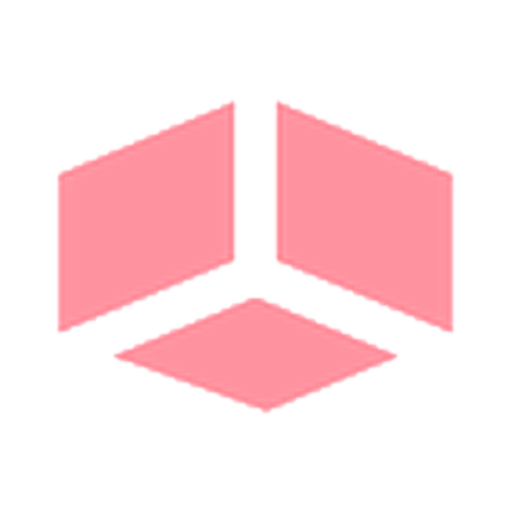
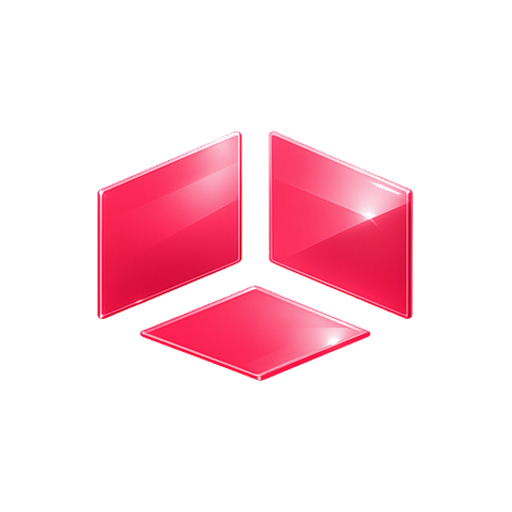
Atualiza splash e icone nativo do app

Changed region(s): [[0.0938, 0.1875, 0.9062, 0.8125]]

diff --git a/tests-e2e/controlled/mobile-lealt-compacto.spec.ts b/tests-e2e/controlled/mobile-lealt-compacto.spec.ts
@@ -114,4 +114,26 @@ test.describe('Mobile — LEALT compacto', () => {
     }
   })
 
+
+  test('mantém splash e ícone nativos alinhados ao LEALT e dentro da zona segura', async () => {
+    const appConfig = JSON.parse(read('app/app.json'))
+    const expo = appConfig.expo
+    const splashPlugin = expo.plugins.find((item: any) => Array.isArray(item) && item[0] === 'expo-splash-screen')
+
+    expect(expo.icon).toBe('./assets/dropzone-launcher-icon.png')
+    expect(expo.android.adaptiveIcon.foregroundImage).toBe('./assets/dropzone-launcher-foreground.png')
+    expect(expo.android.adaptiveIcon.backgroundColor).toBe('#F4F1EB')
+    expect(splashPlugin?.[1]?.image).toBe('./assets/dropzone-icon-accent.png')
+    expect(splashPlugin?.[1]?.imageWidth).toBe(180)
+    expect(splashPlugin?.[1]?.backgroundColor).toBe('#F4F1EB')
+    expect(splashPlugin?.[1]?.backgroundColor).not.toBe('#0f1420')
+
+    for (const asset of [
+      'app/assets/dropzone-launcher-icon.png',
+      'app/assets/dropzone-launcher-foreground.png',
+      'app/assets/dropzone-icon-accent.png',
+    ]) expect(fs.existsSync(path.join(root, asset))).toBeTruthy()
+  })
+
+
 })
